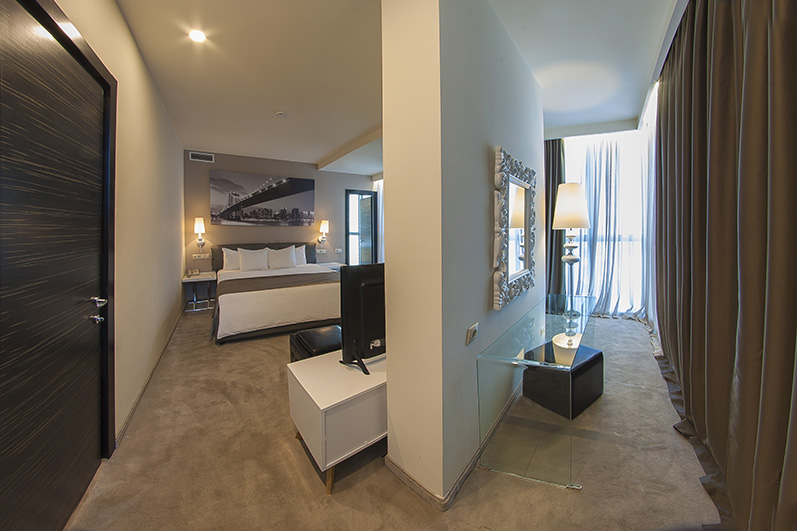
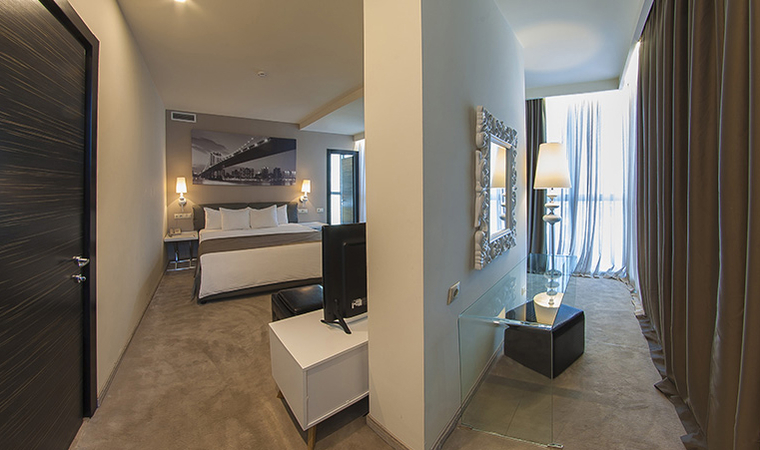
about page, images size, table 95 vw

diff --git a/src/components/About.js b/src/components/About.js
@@ -16,9 +16,9 @@ const useStyles = makeStyles({
   },
   white: { color: 'white' },
   card: { marginTop: 40, padding: 20 },
-  wrap: { display: 'flex', justifyContent: 'space-around' },
+  wrap: { display: 'flex', alignItems: 'center', justifyContent: 'space-around' },
   reverse: { flexDirection: 'row-reverse' },
-  column: { flexDirection: 'column', alignItems: 'center' },
+  column: { flexDirection: 'column' },
   '@media (max-width: 950px)': {
     container: {
       width: '90vw',
@@ -32,7 +32,9 @@ export default function About() {
   return (
     <div className={classes.container}>
       <div className={classes.white}>
-        <Typography variant='h2'>HOTEL GROUP TWO</Typography>
+        <Typography paragraph variant='h2'>
+          HOTEL GROUP TWO
+        </Typography>
       </div>
       <Typography variant='subtitle1' className={classes.white}>
         Our hotel is renovated in 2018. Our hotel with a concentrated flavor of Yerevan and a combination of the best European services. The
@@ -44,7 +46,9 @@ export default function About() {
         hotel.
       </Typography>
       <Card className={classes.card}>
-        <Typography variant='h4'>DELUXE SUITE</Typography>
+        <Typography paragraph variant='h4'>
+          DELUXE SUITE
+        </Typography>
         <Typography variant='subtitle2'>
           Relax in our Deluxe featuring large and well decorated rooms with maximum of comfort in a minimalist style. The sober colors along
           with bright details add a touch of elegance to the interior of the suite. The charm of the Deluxe is complemented by the stunning
@@ -65,7 +69,7 @@ export default function About() {
                 <img key={e + i} src={e} alt='deluxe' />
               ))}
             </Carousel>
-            <Typography variant='subtitle1' align='right'>
+            <Typography variant='subtitle1' align={device ? 'center' : 'right'}>
               Size: 35-39 sq. m.
               <br />
               Controlled air-conditioning
@@ -88,7 +92,9 @@ export default function About() {
         </CardContent>
       </Card>
       <Card className={classes.card}>
-        <Typography variant='h4'>PREMIER SUITE</Typography>
+        <Typography paragraph variant='h4'>
+          PREMIER SUITE
+        </Typography>
         <Typography variant='subtitle2'>
           The warm and welcoming Premier Suite features 40-43 sq. m. living room and a comfortable bedroom. In most of suites hot tub and
           King bed are available. This contemporary, yet classical Suite offers unparalleled luxury due to its first-rate service, working
@@ -110,7 +116,7 @@ export default function About() {
                 <img key={e + i} src={e} alt='premier' />
               ))}
             </Carousel>
-            <Typography variant='subtitle1' align='left'>
+            <Typography variant='subtitle1' align={device ? 'center' : 'left'}>
               Size: 40-43 sq. m.
               <br />
               Controlled air-conditioning
@@ -137,7 +143,9 @@ export default function About() {
         </CardContent>
       </Card>
       <Card className={classes.card}>
-        <Typography variant='h4'>EXECUTIVE SUITE</Typography>
+        <Typography paragraph variant='h4'>
+          EXECUTIVE SUITE
+        </Typography>
         <Typography variant='subtitle2'>
           The spacious Executive Suite offers a perfect balance of luxury and space with its separate living room and bedroom. This suite is
           for those who are looking for personal service, perfect amenities and extra space. The Executive Suites expose an open-plan
@@ -158,7 +166,7 @@ export default function About() {
                 <img key={e + i} src={e} alt='executive' />
               ))}
             </Carousel>
-            <Typography variant='subtitle1' align='right'>
+            <Typography variant='subtitle1' align={device ? 'center' : 'right'}>
               46-55 sq. m.
               <br />
               2 LCD TV

diff --git a/src/components/tables/HotelTable.js b/src/components/tables/HotelTable.js
@@ -8,10 +8,9 @@ import OrdersTable from './OrdersTable';
 
 const useStyles = makeStyles({
   tableWrap: { display: 'flex', justifyContent: 'space-between' },
-  sizes: { width: 650, height: 500, border: '1px solid rgba(1, 1, 1, 0.1)' },
+  sizes: { width: '95vw', height: 500, border: '1px solid rgba(1, 1, 1, 0.1)' },
   buttonWrap: { display: 'flex', justifyContent: 'center', alignItems: 'center' },
   '@media (max-width: 1250px)': {
-    sizes: { width: '90vw' },
     tableWrap: { flexDirection: 'column' },
     wrap: { display: 'flex', flexDirection: 'column-reverse' },
   },
@@ -24,6 +23,7 @@ export default function HotelTable() {
   const [columnDefs] = useState([
     { field: 'room', pinned: 'left', width: 80 },
     {
+      headerName: 'Status',
       field: 'booked',
       width: 120,
       editable: true,
@@ -46,21 +46,21 @@ export default function HotelTable() {
     },
     {
       field: 'from',
-      width: 110,
+      width: 120,
       cellRenderer: ({ data: { from } }) => {
         return from ? new Date(from).toLocaleDateString() : '-';
       },
     },
     {
       field: 'to',
-      width: 110,
+      width: 120,
       cellRenderer: ({ data: { to } }) => {
         return to ? new Date(to).toLocaleDateString() : '-';
       },
     },
     {
       field: 'bookingDate',
-      width: 110,
+      width: 120,
       cellRenderer: ({ data: { bookingDate } }) => {
         return bookingDate ? new Date(bookingDate).toLocaleDateString() : '-';
       },

diff --git a/src/components/tables/LogsTable.js b/src/components/tables/LogsTable.js
@@ -6,7 +6,7 @@ import { makeStyles } from '@material-ui/core';
 import { getLogs } from '../../requests/firebase';
 
 const useStyles = makeStyles(() => ({
-  size: { width: '90vw', height: 500, border: '1px solid rgba(1, 1, 1, 0.1)' },
+  size: { width: '95vw', height: 500, border: '1px solid rgba(1, 1, 1, 0.1)' },
 }));
 
 export default function LogsTable() {
@@ -15,10 +15,11 @@ export default function LogsTable() {
   const [columnDefs] = useState([
     {
       field: 'Logged at',
-      width: 185,
+      pinned: 'left',
+      width: 200,
       cellRenderer: ({ data: { logged } }) => new Date(logged).toUTCString().slice(0, -4),
     },
-    { field: 'room', width: 85 },
+    { field: 'room', width: 90 },
     {
       field: 'action',
       width: 150,
@@ -28,11 +29,11 @@ export default function LogsTable() {
     {
       headerName: 'orders (changes)',
       field: 'orders',
-      width: 100,
+      width: 150,
       cellRenderer: ({ data: { orders, prevOrders } }) =>
         orders?.length ? `${orders.length} ( +${orders.length - (prevOrders || 0)} )` : '-',
     },
-    { field: 'Duration (From / To)', width: 190, cellRenderer: ({ data: { from, to } }) => (from ? from + ' / ' + to : '-') },
+    { field: 'Duration (From / To)', width: 200, cellRenderer: ({ data: { from, to } }) => (from ? from + ' / ' + to : '-') },
   ]);
 
   useEffect(() => {

diff --git a/src/components/Hotel.js b/src/components/Hotel.js
@@ -2,14 +2,13 @@ import { Button, makeStyles, Paper } from '@material-ui/core';
 import clsx from 'clsx';
 import { useContext } from 'react';
 import UserDataContext from '../contexts/UserDataContext';
-
+import { COLOR_RED, COLOR_GREEN, COLOR_MOOD_GRAY, COLOR_LIGHT_GRAY } from '../constants/default';
 const useStyles = makeStyles((theme) => ({
   hotel: {
     width: 264,
     height: 540,
-    backgroundColor: '#dfdfdf',
+    backgroundColor: COLOR_LIGHT_GRAY,
     padding: 8,
-    border: '1px solid rgba(63,64,63,0.7)',
   },
   window: {
     width: 28,
@@ -24,21 +23,19 @@ const useStyles = makeStyles((theme) => ({
     height: 64,
     margin: 'auto',
     minWidth: 32,
-    backgroundColor: 'rgba(105,155,103, 0.5)',
+    backgroundColor: COLOR_MOOD_GRAY,
   },
   free: {
-    background: 'rgba(105,155,103, 0.9)', // green
+    background: COLOR_GREEN,
   },
   booked: {
-    background: 'rgba(130,74,74, 0.9)', // red
+    background: COLOR_RED,
   },
   roomButton: {
     minWidth: 28,
     minHeight: 32,
     padding: 0,
     margin: 0,
-    border: 5,
-    borderColor: 'black',
   },
   reverse: {
     display: 'flex',

diff --git a/src/components/tables/UsersTable.js b/src/components/tables/UsersTable.js
@@ -6,7 +6,7 @@ import { makeStyles } from '@material-ui/core';
 import { changeUserInfo, getUsersList } from '../../requests/firebase';
 
 const useStyles = makeStyles({
-  size: { width: '90vw', height: 500, border: '1px solid rgba(1, 1, 1, 0.1)' },
+  size: { width: '95vw', height: 500, border: '1px solid rgba(1, 1, 1, 0.1)' },
 });
 
 export default function UsersTable() {
@@ -16,7 +16,7 @@ export default function UsersTable() {
     { field: 'username', pinned: 'left', width: 110 },
     {
       field: 'permission',
-      width: 90,
+      width: 110,
       editable: true,
       valueGetter: (params) => params.data.permission,
       valueSetter: (params) => {
@@ -33,8 +33,8 @@ export default function UsersTable() {
     },
     { field: 'displayName', width: 150 },
     { field: 'email' },
-    { field: 'gender', width: 75 },
-    { field: 'avatar', width: 75 },
+    { field: 'gender', width: 90, cellRenderer: ({ data: { gender } }) => (gender === 'm' ? 'Male' : 'Female') },
+    { field: 'avatar', width: 90 },
   ]);
 
   useEffect(() => {

diff --git a/src/components/Navbar.js b/src/components/Navbar.js
@@ -9,9 +9,9 @@ import { Avatar, Button } from '@material-ui/core';
 import { ABOUT_ROUTE, HOME_ROUTE, PROFILE_ROUTE, SIGNIN_ROUTE, SIGNUP_ROUTE } from '../constants/routes';
 import { signOutUser } from '../requests/firebase';
 import avatars from '../avatars';
-
+import { COLOR_MOOD_GRAY } from '../constants/default';
 const useStyles = makeStyles((theme) => ({
-  appBar: { position: 'sticky', backgroundColor: 'rgb(169,169,169)' },
+  appBar: { position: 'sticky', backgroundColor: COLOR_MOOD_GRAY },
   logo: { maxWidth: 160, maxHeight: 50 },
   navlinks: { color: 'black', margin: 5, textDecoration: 'none' },
   button: { fontSize: 16 },

diff --git a/src/components/tables/OrdersTable.js b/src/components/tables/OrdersTable.js
@@ -9,7 +9,7 @@ import { onValue } from 'firebase/database';
 
 const useStyles = makeStyles({
   size: { width: 500, height: 500, border: '1px solid rgba(1, 1, 1, 0.1)' },
-  '@media (max-width: 1250px)': { size: { width: '90vw' } },
+  '@media (max-width: 1250px)': { size: { width: '95vw' } },
 });
 
 export default function OrdersTable(props) {

diff --git a/src/constants/default.js b/src/constants/default.js
@@ -2,3 +2,8 @@ export const DEFAULT_ROOM = { booked: null, from: null, to: null, bookingDate: n
 
 export const MIN_WIDTH_TABLET = 950;
 export const MIN_WIDTH_MOBILE = 350;
+
+export const COLOR_RED = '#ef5350';
+export const COLOR_GREEN = '#66bb66';
+export const COLOR_LIGHT_GRAY = '#dfdfdf';
+export const COLOR_MOOD_GRAY = '#9e9e9e';
